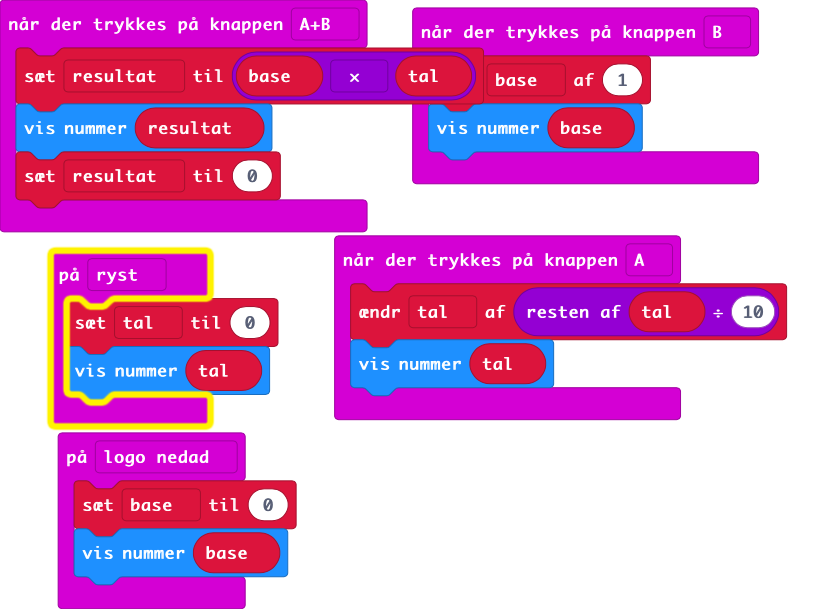
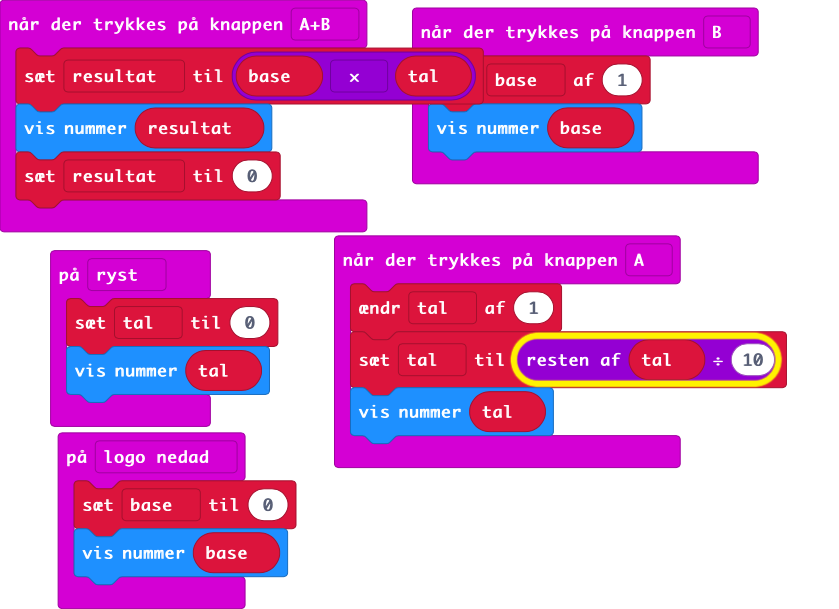
rest justering

diff --git a/main.ts b/main.ts
@@ -6,7 +6,8 @@ input.onGesture(Gesture.Shake, function () {
     basic.showNumber(tal)
 })
 input.onButtonPressed(Button.A, function () {
-    tal += tal % 10
+    tal += 1
+    tal = tal % 10
     basic.showNumber(tal)
 })
 input.onButtonPressed(Button.AB, function () {
